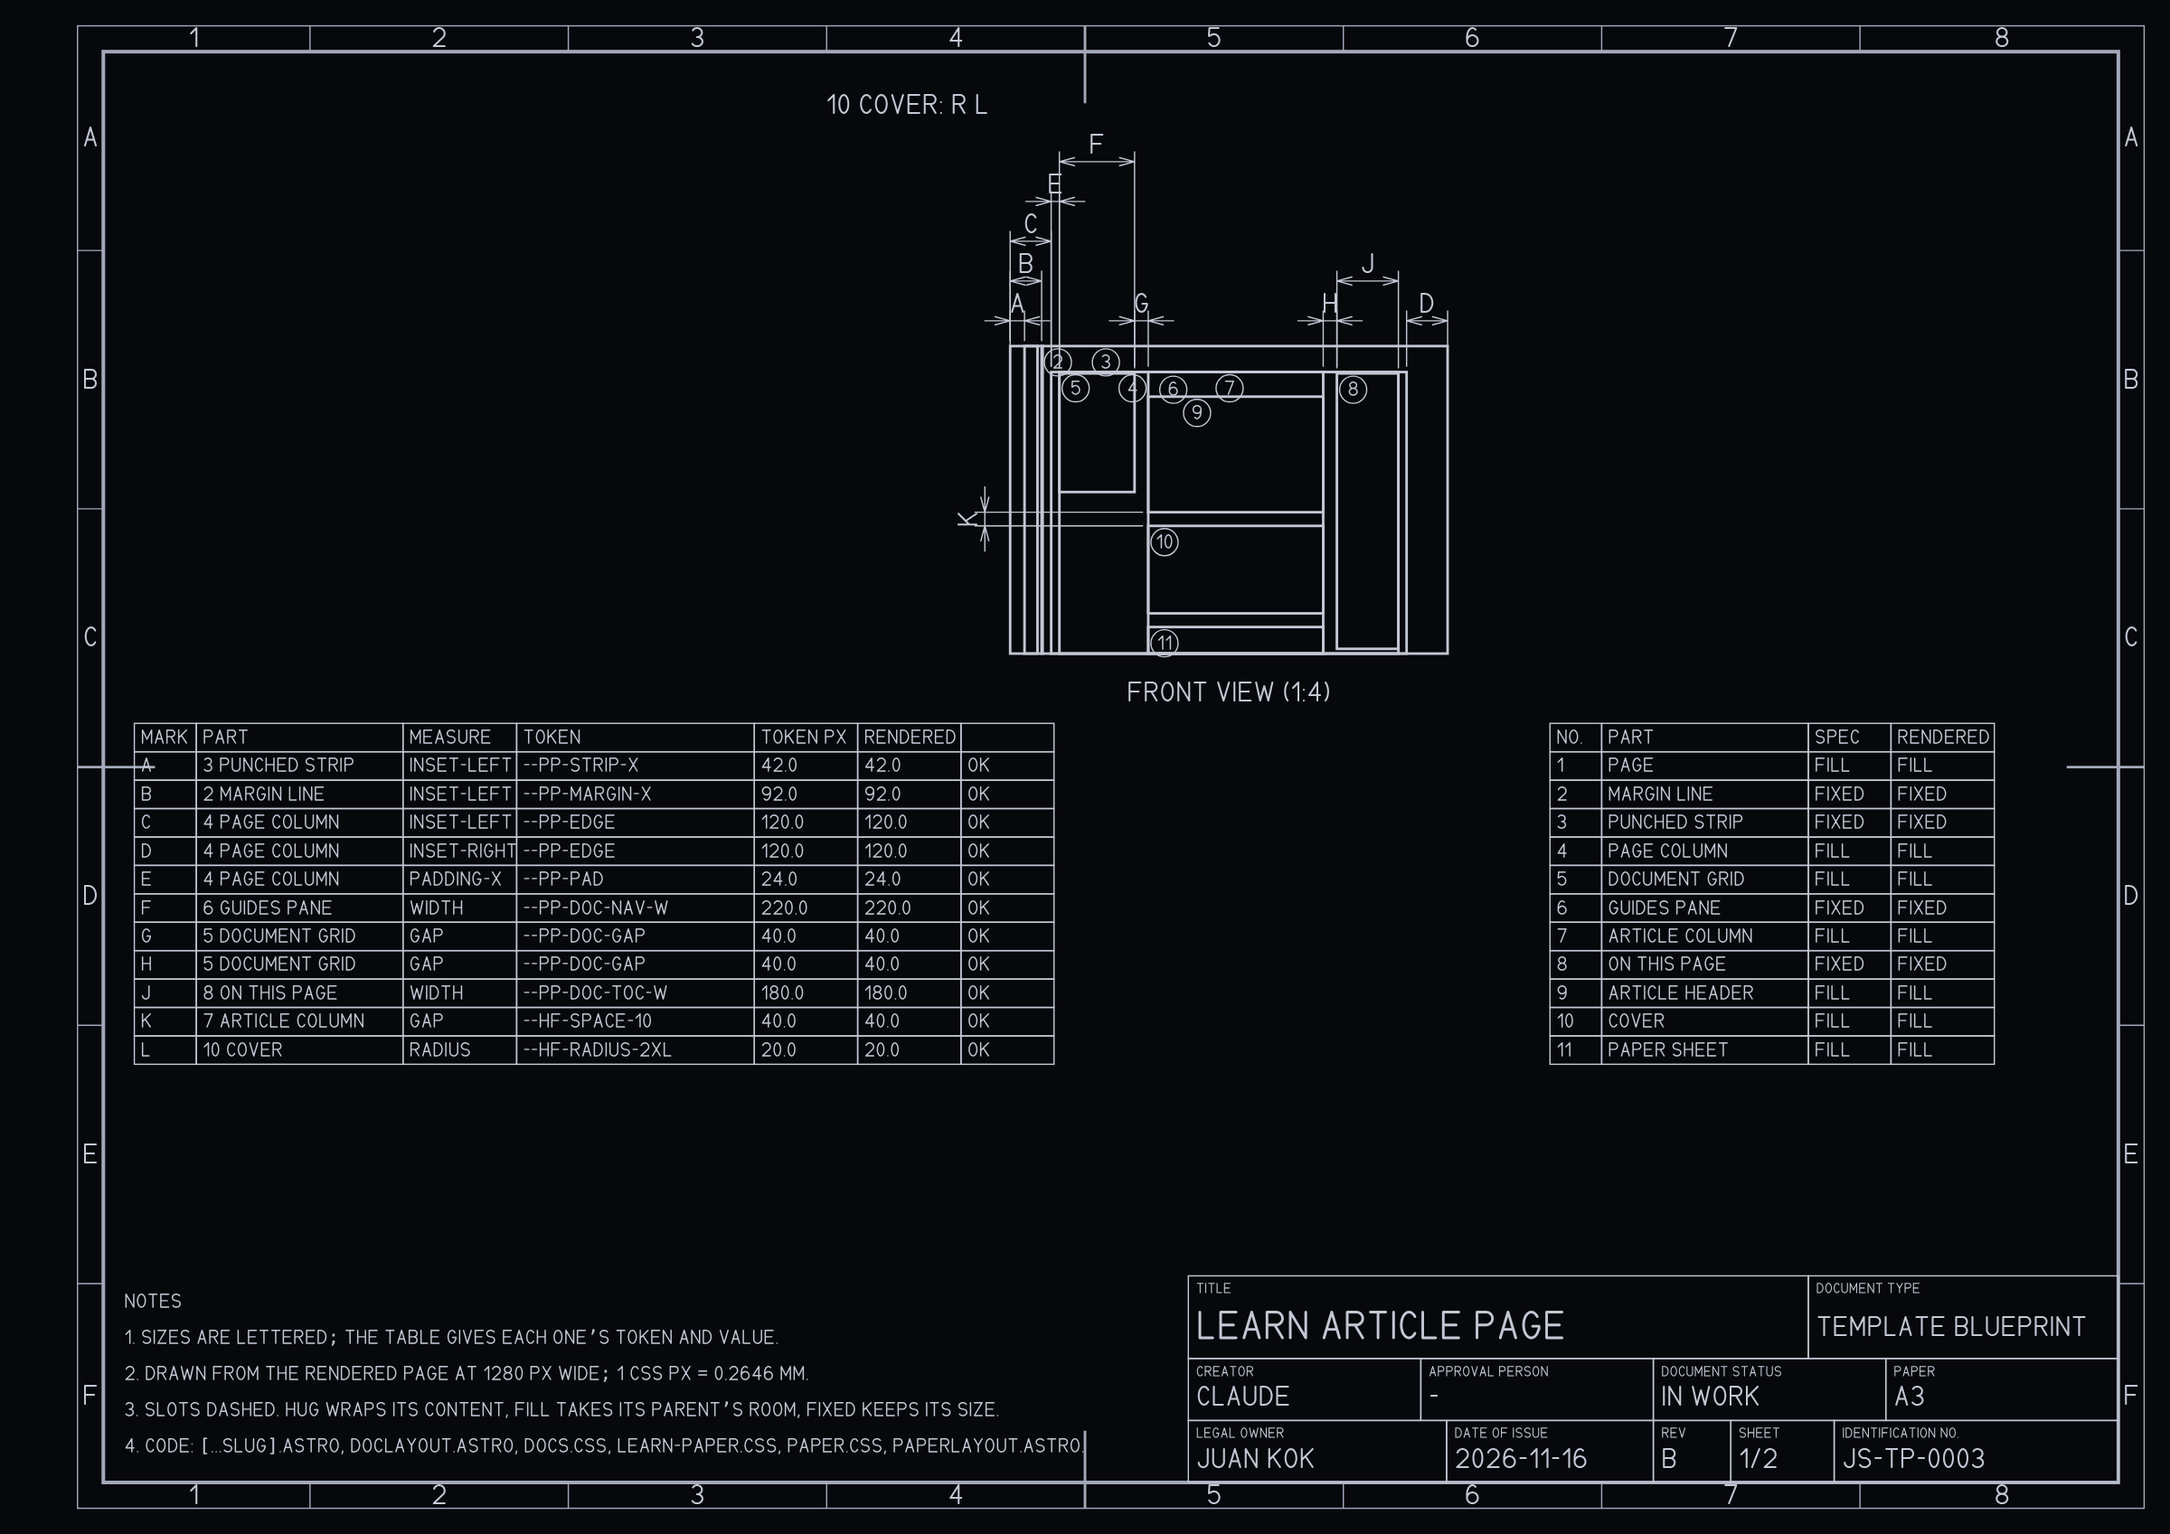
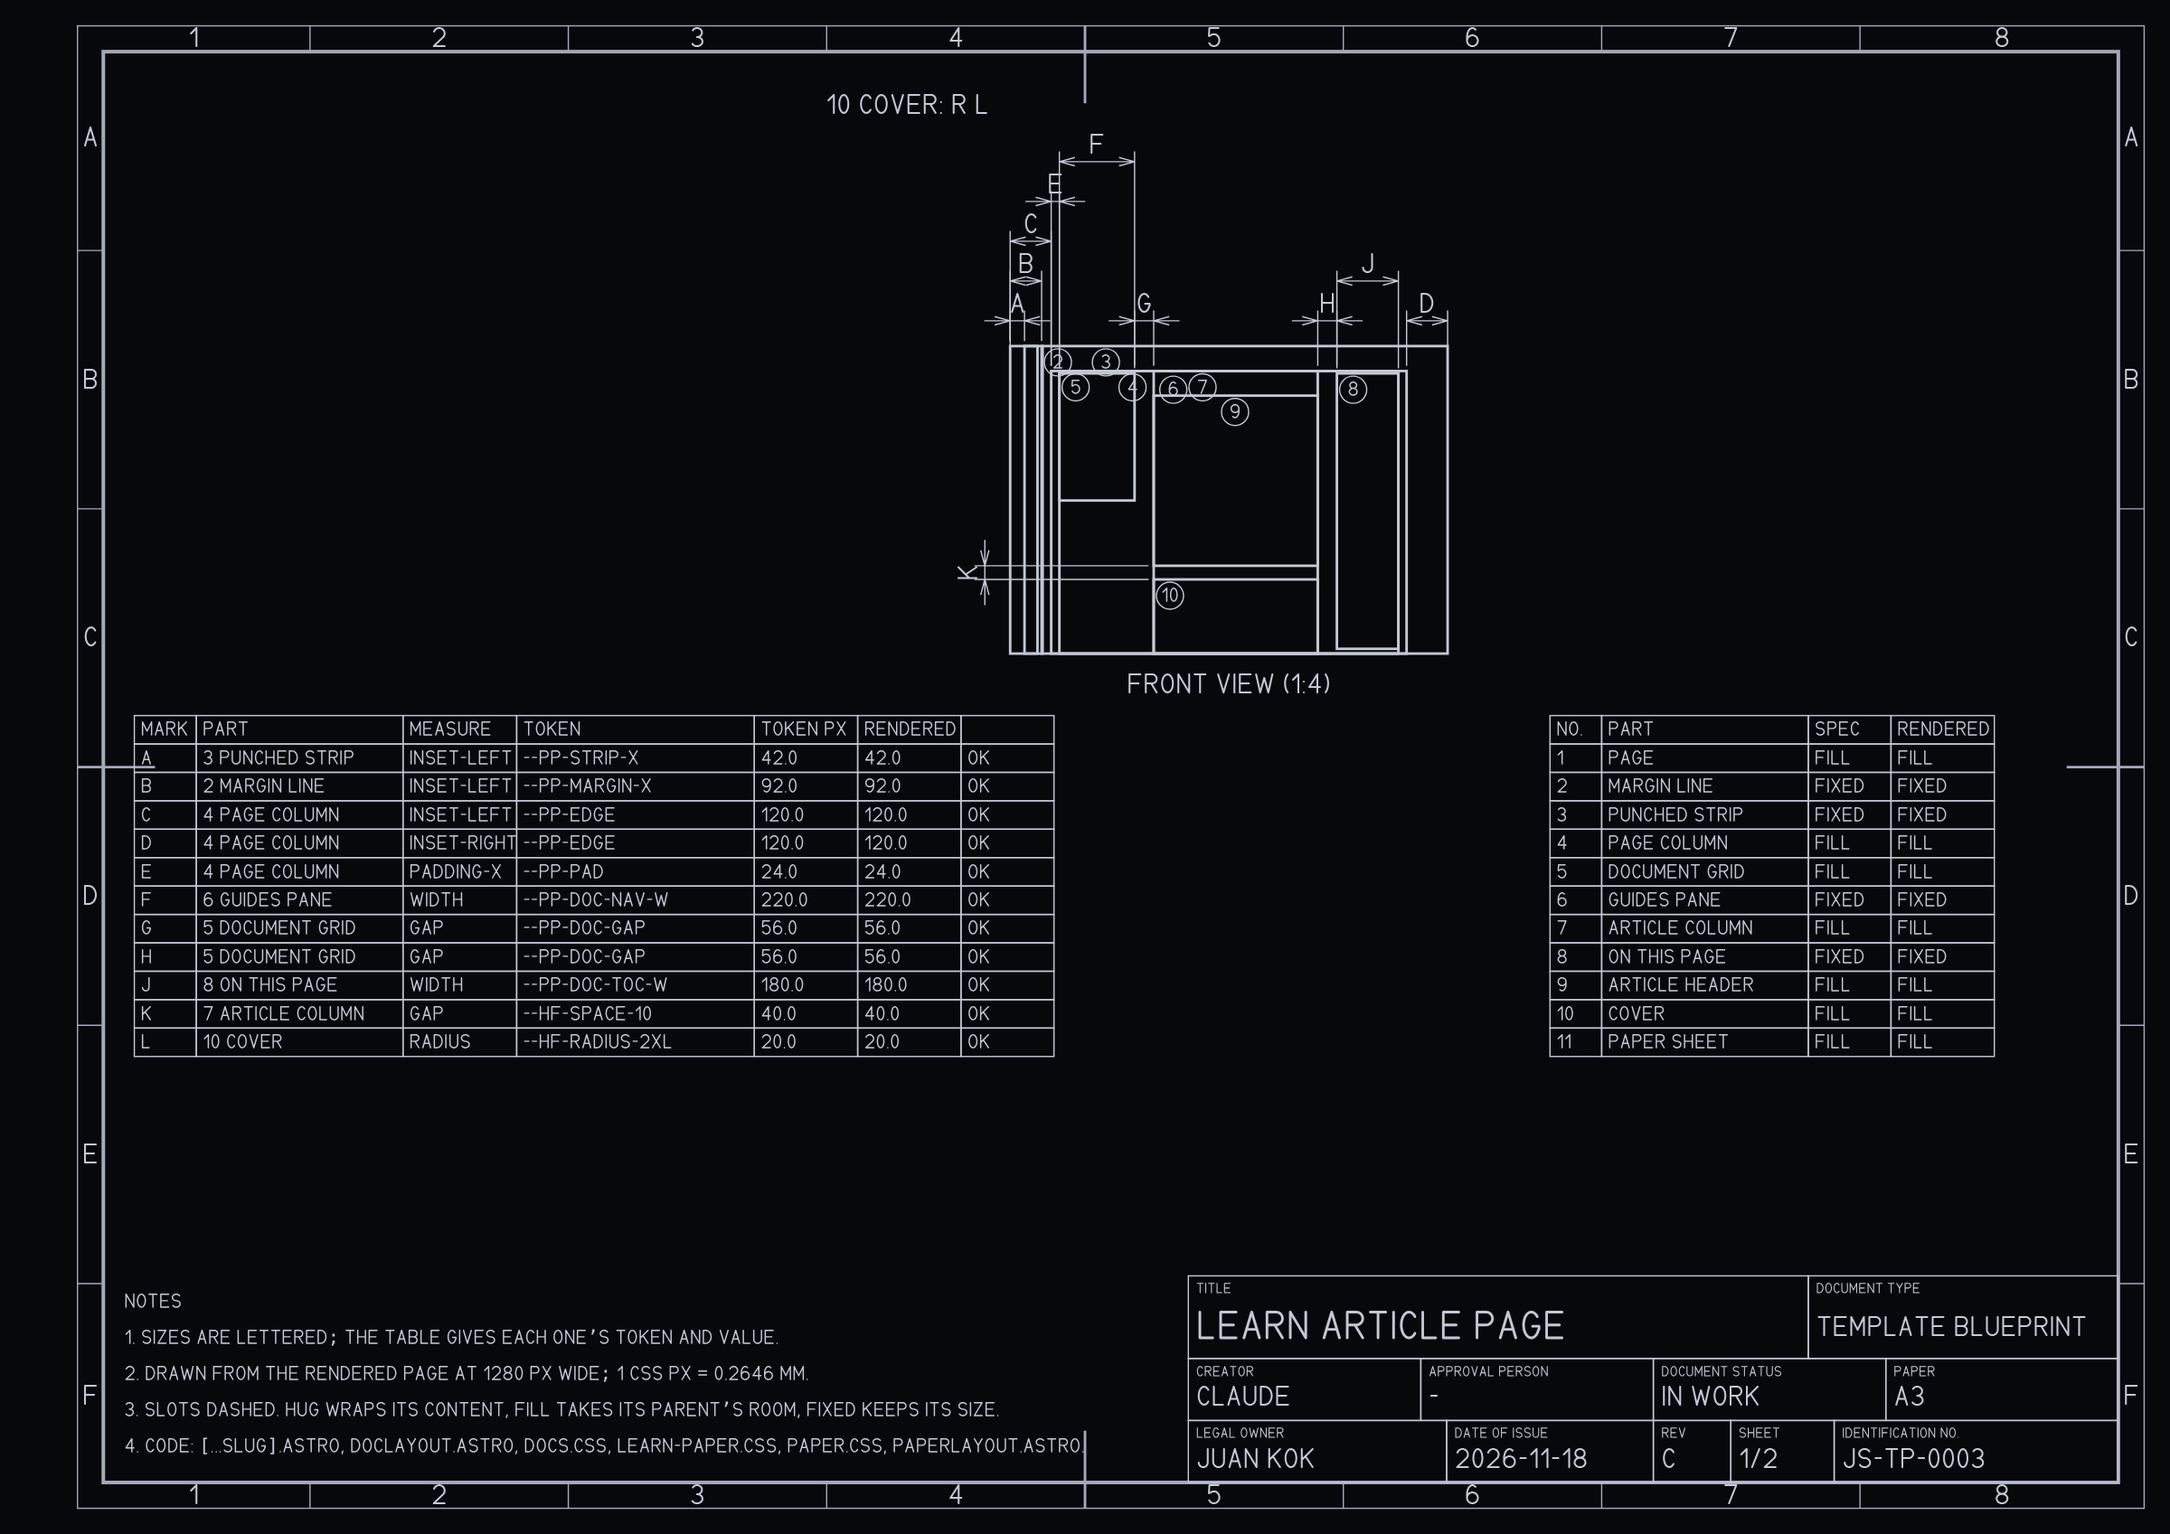
feat: posts read at 70 to 81 characters a line, with room around them
Comparing a post with Vercel's docs in dark mode, Juan found his lines too
long and the side panels too close. Measured on rendered lines: the article
column grew with the window to 911 px, about 116 characters a line at
1728 px, against Vercel's fixed 760 px (81); the panels sat 40 px away at
any width, against 60-93 px at 1440 and over 200 px at 1728 on Vercel.

- --pp-doc-measure (608 px, about 77 characters at the 17 px body) caps the
  article, which centres in its track, so a wider screen widens the gaps
  instead of the lines. --pp-doc-gap goes from 40 to 56 px.
- At 1440, 1728 and 1920 px both blog posts and learn articles now read at
  75-77 characters with 72-193 px either side. At 1280 the three columns
  leave room for 59 characters until On this page folds away at 1180.
- presentation:browser (CI) now measures it on rendered lines of body text:
  70 to 81 characters and at least --pp-doc-gap to each panel, at 1440,
  1728 and 1920 px. It fails the old layout (110 characters at 1728).
- blog-post and learn-article blueprints go to revision C (blueprint:check
  passes at 1280 and 390, sheets stored and read); the token is shown on
  the design system; site-taste records the rule as stated.

Claude-Session: https://claude.ai/code/session_01EUrBbh3nubsorYf6oJpc8D

diff --git a/astro/src/blueprints/blog-post.ts b/astro/src/blueprints/blog-post.ts
@@ -2,7 +2,9 @@ import { onPage, type Blueprint } from './types';
 
 /** The blog post page: the notepad (punched strip and margin line, then the page column clear of
  *  them) holding the document grid (the pane of other posts, the article, On this page), and in the
- *  article the header and the cover. Below 1180 px the contents column goes; below 900 px the pane
+ *  article the header and the cover. The article holds the reading measure (--pp-doc-measure, 70 to 81
+ *  characters a line) and centres in its column, so a wider screen widens the gaps, not the lines;
+ *  presentation:browser measures it. Below 1180 px the contents column goes; below 900 px the pane
  *  folds into a button and the notepad furniture is not drawn. */
 export const BLOG_POST: Blueprint = {
   id: 'blog-post',
@@ -37,6 +39,6 @@ export const BLOG_POST: Blueprint = {
     { measure: 'radius', part: 10, token: '--hf-radius-2xl' },
   ],
   number: 'JS-TP-0001',
-  revision: 'B',
-  drawn: '2026-11-16',
+  revision: 'C',
+  drawn: '2026-11-18',
 };

diff --git a/astro/src/blueprints/learn-article.ts b/astro/src/blueprints/learn-article.ts
@@ -1,6 +1,7 @@
 import { onPage, type Blueprint } from './types';
 
-/** A /learn article: the blog post's notepad and docs layout, with the body on a sheet of paper. */
+/** A /learn article: the blog post's notepad and docs layout, with the body on a sheet of paper. Like the
+ *  blog post, the article holds the reading measure (--pp-doc-measure) and centres in its column. */
 export const LEARN_ARTICLE: Blueprint = {
   id: 'learn-article',
   kind: 'template',
@@ -41,6 +42,6 @@ export const LEARN_ARTICLE: Blueprint = {
     { measure: 'radius', part: 10, token: '--hf-radius-2xl' },
   ],
   number: 'JS-TP-0003',
-  revision: 'B',
-  drawn: '2026-11-16',
+  revision: 'C',
+  drawn: '2026-11-18',
 };

diff --git a/astro/src/styles/tokens/paper.css b/astro/src/styles/tokens/paper.css
@@ -138,7 +138,10 @@
   --pp-curl-blur: 14px;
   --pp-doc-nav-w: 220px;
   --pp-doc-toc-w: 180px;
-  --pp-doc-gap: 40px;
+  /* The least room between the article and the panels beside it; wider screens give more. */
+  --pp-doc-gap: 56px;
+  /* The article's reading measure: 70 to 81 characters a line at the body size (Juan, 18 Nov). */
+  --pp-doc-measure: 608px;
   /* The home hero's lead. */
   --pp-lead-w: 600px;
   /* Tracker pages: the version rail, the gap beside it, the widest the main panel goes. */

diff --git a/astro/src/components/docs/docs.css b/astro/src/components/docs/docs.css
@@ -8,8 +8,13 @@
   align-items: start;
 }
 
+/* The article holds its reading measure and centres in its track, so a wider screen puts the
+   extra width into the space either side of it rather than into longer lines. */
 .doc-main {
+  justify-self: center;
+  width: 100%;
   min-width: 0;
+  max-width: var(--pp-doc-measure);
 }
 
 .doc-pane,

diff --git a/astro/src/blueprints/INDEX.md b/astro/src/blueprints/INDEX.md
@@ -60,16 +60,16 @@ The top bar of every page: who, where and tools; a menu button on a phone.
 | Part | Also called | Size | Token | Defined at | Resolves to | Also changes |
 |---|---|---|---|---|---|---|
 | 2 Row | inner row, three zones | padding across | `--pp-pad` | src/styles/tokens/paper.css:104 | var(--hf-space-6) → 24px | paper-footer, blog-post, learn-article, writing-index, learn-index, lab, read in 4 files |
-| 2 Row | inner row, three zones | least height | `--pp-nav-h` | src/styles/tokens/paper.css:174 | 72px | - |
+| 2 Row | inner row, three zones | least height | `--pp-nav-h` | src/styles/tokens/paper.css:177 | 72px | - |
 | 3 Brand | who, name, home link | gap | `--hf-space-3` | src/styles/tokens/spacing.css:10 | 12px | paper-footer, home, lab, read in 45 files |
-| 4 Monogram | logo, SJ | height | `--pp-nav-mark-h` | src/styles/tokens/paper.css:175 | 34px | - |
+| 4 Monogram | logo, SJ | height | `--pp-nav-mark-h` | src/styles/tokens/paper.css:178 | 34px | - |
 | 5 Pages | where, menu, nav links | gap | `--hf-space-1` | src/styles/tokens/spacing.css:8 | 4px | read in 35 files |
 | 6 Page link | tab | padding across | `--hf-space-3` | src/styles/tokens/spacing.css:10 | 12px | paper-footer, home, lab, read in 45 files |
 | 7 Tools | right side | gap | `--hf-space-3` | src/styles/tokens/spacing.css:10 | 12px | paper-footer, home, lab, read in 45 files |
-| 8 Theme button | dark mode, light mode, sun, moon | width | `--pp-nav-icon` | src/styles/tokens/paper.css:177 | 36px | - |
-| 8 Theme button | dark mode, light mode, sun, moon | height | `--pp-nav-icon` | src/styles/tokens/paper.css:177 | 36px | - |
-| 9 CV button | download CV | least height | `--pp-nav-icon` | src/styles/tokens/paper.css:177 | 36px | - |
-| 10 Menu button | hamburger | height | `--pp-nav-icon` | src/styles/tokens/paper.css:177 | 36px | - |
+| 8 Theme button | dark mode, light mode, sun, moon | width | `--pp-nav-icon` | src/styles/tokens/paper.css:180 | 36px | - |
+| 8 Theme button | dark mode, light mode, sun, moon | height | `--pp-nav-icon` | src/styles/tokens/paper.css:180 | 36px | - |
+| 9 CV button | download CV | least height | `--pp-nav-icon` | src/styles/tokens/paper.css:180 | 36px | - |
+| 10 Menu button | hamburger | height | `--pp-nav-icon` | src/styles/tokens/paper.css:180 | 36px | - |
 
 ## PaperFooter (`paper-footer`, JS-LY-0002 rev B)
 
@@ -79,9 +79,9 @@ The foot of every page as a drawing title block: who, three link indexes, then l
 |---|---|---|---|---|---|---|
 | 2 Inner column | footer column | padding across | `--pp-pad` | src/styles/tokens/paper.css:104 | var(--hf-space-6) → 24px | paper-nav, blog-post, learn-article, writing-index, learn-index, lab, read in 4 files |
 | 2 Inner column | footer column | padding down | `--hf-space-12` | src/styles/tokens/spacing.css:16 | 48px | writing-index, learn-index, presentation, read in 14 files |
-| 4 Who | brand column, name and pitch | width | `--pp-foot-brand-w` | src/styles/tokens/paper.css:183 | 340px | - |
+| 4 Who | brand column, name and pitch | width | `--pp-foot-brand-w` | src/styles/tokens/paper.css:186 | 340px | - |
 | 4 Who | brand column, name and pitch | gap | `--hf-space-4` | src/styles/tokens/spacing.css:11 | 16px | section-head, presentation, read in 39 files |
-| 5 Monogram | logo, SJ | height | `--pp-foot-mark-h` | src/styles/tokens/paper.css:182 | 40px | - |
+| 5 Monogram | logo, SJ | height | `--pp-foot-mark-h` | src/styles/tokens/paper.css:185 | 40px | - |
 | 6 Link index | pages, link group | padding across | `--hf-space-6` | src/styles/tokens/spacing.css:13 | 24px | home, read in 38 files |
 | 6 Link index | pages, link group | padding down | `--hf-space-6` | src/styles/tokens/spacing.css:13 | 24px | home, read in 38 files |
 | 8 Cell | drawn by, part no., rev | padding down | `--hf-space-3` | src/styles/tokens/spacing.css:10 | 12px | paper-nav, home, lab, read in 45 files |
@@ -95,10 +95,10 @@ The landing page: a hero of copy and a drawing side by side, then the notepad se
 | 2 Hero | opening, top section | padding down | `--hf-space-8` | src/styles/tokens/spacing.css:14 | 32px | writing-index, learn-index, read in 30 files |
 | 3 Hero row | notepad sheet | gap | `--hf-space-6` | src/styles/tokens/spacing.css:13 | 24px | paper-footer, read in 38 files |
 | 5 Stage | drawing, logo, picture | widest width | `--pp-stage-w` | src/styles/tokens/paper.css:132 | 540px | - |
-| 6 Lead | intro, paragraph | widest width | `--pp-lead-w` | src/styles/tokens/paper.css:143 | 600px | - |
+| 6 Lead | intro, paragraph | widest width | `--pp-lead-w` | src/styles/tokens/paper.css:146 | 600px | - |
 | 7 Actions | buttons | gap | `--hf-space-3` | src/styles/tokens/spacing.css:10 | 12px | paper-nav, paper-footer, lab, read in 45 files |
 
-## Blog post page (`blog-post`, JS-TP-0001 rev B)
+## Blog post page (`blog-post`, JS-TP-0001 rev C)
 
 A post in the docs layout: other posts on the left, the article, its contents on the right.
 
@@ -110,13 +110,13 @@ A post in the docs layout: other posts on the left, the article, its contents on
 | 4 Page column | page, main | distance from the right edge | `--pp-edge` | not defined in the token files |  | learn-article, read in 3 files |
 | 4 Page column | page, main | padding across | `--pp-pad` | src/styles/tokens/paper.css:104 | var(--hf-space-6) → 24px | paper-nav, paper-footer, learn-article, writing-index, learn-index, lab, read in 4 files |
 | 6 Posts pane | sidebar, left column, navigation | width | `--pp-doc-nav-w` | src/styles/tokens/paper.css:139 | 220px | learn-article |
-| 5 Document grid | layout, three columns | gap | `--pp-doc-gap` | src/styles/tokens/paper.css:141 | 40px | learn-article |
-| 5 Document grid | layout, three columns | gap | `--pp-doc-gap` | src/styles/tokens/paper.css:141 | 40px | learn-article |
+| 5 Document grid | layout, three columns | gap | `--pp-doc-gap` | src/styles/tokens/paper.css:142 | 56px | learn-article |
+| 5 Document grid | layout, three columns | gap | `--pp-doc-gap` | src/styles/tokens/paper.css:142 | 56px | learn-article |
 | 8 On this page | contents, table of contents, right column | width | `--pp-doc-toc-w` | src/styles/tokens/paper.css:140 | 180px | learn-article |
 | 7 Article column | article, middle column, text column | gap | `--hf-space-10` | src/styles/tokens/spacing.css:15 | 40px | learn-article, read in 17 files |
 | 10 Cover | hero image, figure | corner radius | `--hf-radius-2xl` | src/styles/tokens/spacing.css:46 | 20px | learn-article, read in 7 files |
 
-## Learn article page (`learn-article`, JS-TP-0003 rev B)
+## Learn article page (`learn-article`, JS-TP-0003 rev C)
 
 An explainer in the docs layout, its body on a paper sheet, next reads at the end.
 
@@ -128,8 +128,8 @@ An explainer in the docs layout, its body on a paper sheet, next reads at the en
 | 4 Page column | page, main | distance from the right edge | `--pp-edge` | not defined in the token files |  | blog-post, read in 3 files |
 | 4 Page column | page, main | padding across | `--pp-pad` | src/styles/tokens/paper.css:104 | var(--hf-space-6) → 24px | paper-nav, paper-footer, blog-post, writing-index, learn-index, lab, read in 4 files |
 | 6 Guides pane | sidebar, left column, navigation | width | `--pp-doc-nav-w` | src/styles/tokens/paper.css:139 | 220px | blog-post |
-| 5 Document grid | layout, three columns | gap | `--pp-doc-gap` | src/styles/tokens/paper.css:141 | 40px | blog-post |
-| 5 Document grid | layout, three columns | gap | `--pp-doc-gap` | src/styles/tokens/paper.css:141 | 40px | blog-post |
+| 5 Document grid | layout, three columns | gap | `--pp-doc-gap` | src/styles/tokens/paper.css:142 | 56px | blog-post |
+| 5 Document grid | layout, three columns | gap | `--pp-doc-gap` | src/styles/tokens/paper.css:142 | 56px | blog-post |
 | 8 On this page | contents, right column | width | `--pp-doc-toc-w` | src/styles/tokens/paper.css:140 | 180px | blog-post |
 | 7 Article column | article, middle column | gap | `--hf-space-10` | src/styles/tokens/spacing.css:15 | 40px | blog-post, read in 17 files |
 | 10 Cover | hero image, figure | corner radius | `--hf-radius-2xl` | src/styles/tokens/spacing.css:46 | 20px | blog-post, read in 7 files |
@@ -186,9 +186,9 @@ A tracker release: the version rail on the left, the main panel centred beside i
 
 | Part | Also called | Size | Token | Defined at | Resolves to | Also changes |
 |---|---|---|---|---|---|---|
-| 3 Version rail | timeline, versions, left column | width | `--pp-tracker-rail-w` | src/styles/tokens/paper.css:145 | 188px | - |
-| 2 Tracker grid | layout | gap | `--pp-tracker-gap` | src/styles/tokens/paper.css:146 | 56px | - |
-| 4 Main panel | release, content | widest width | `--pp-tracker-main-w` | src/styles/tokens/paper.css:147 | 1200px | - |
+| 3 Version rail | timeline, versions, left column | width | `--pp-tracker-rail-w` | src/styles/tokens/paper.css:148 | 188px | - |
+| 2 Tracker grid | layout | gap | `--pp-tracker-gap` | src/styles/tokens/paper.css:149 | 56px | - |
+| 4 Main panel | release, content | widest width | `--pp-tracker-main-w` | src/styles/tokens/paper.css:150 | 1200px | - |
 
 ## Lab index page (`lab`, JS-TP-0008 rev A)
 

diff --git a/.claude/skills/site-taste/SKILL.md b/.claude/skills/site-taste/SKILL.md
@@ -22,6 +22,13 @@ options, not taste.
 
 ## Stated
 
+**Reading measure and breathing room** (18 Nov 2026)
+- Comparing a post with Vercel's docs in dark mode: a line of body text holds 70 to 81 characters
+  ("somewhere between 70-81 make sense for line length make that the rule"); narrowing his own window
+  felt "much more comfortable". The article keeps that measure on wide screens and the extra width
+  becomes room between it and the side panels ("the breathing room make sense"). Built as
+  `--pp-doc-measure` and `--pp-doc-gap`; `presentation:browser` measures it on rendered lines.
+
 **One signal colour, orange** (18 Nov 2026)
 - "can we remove all the teal i feel like we dont need it and it confuses the system like the
   slideicon i can see a teal again." The signal is the paper orange everywhere: the night tokens,
